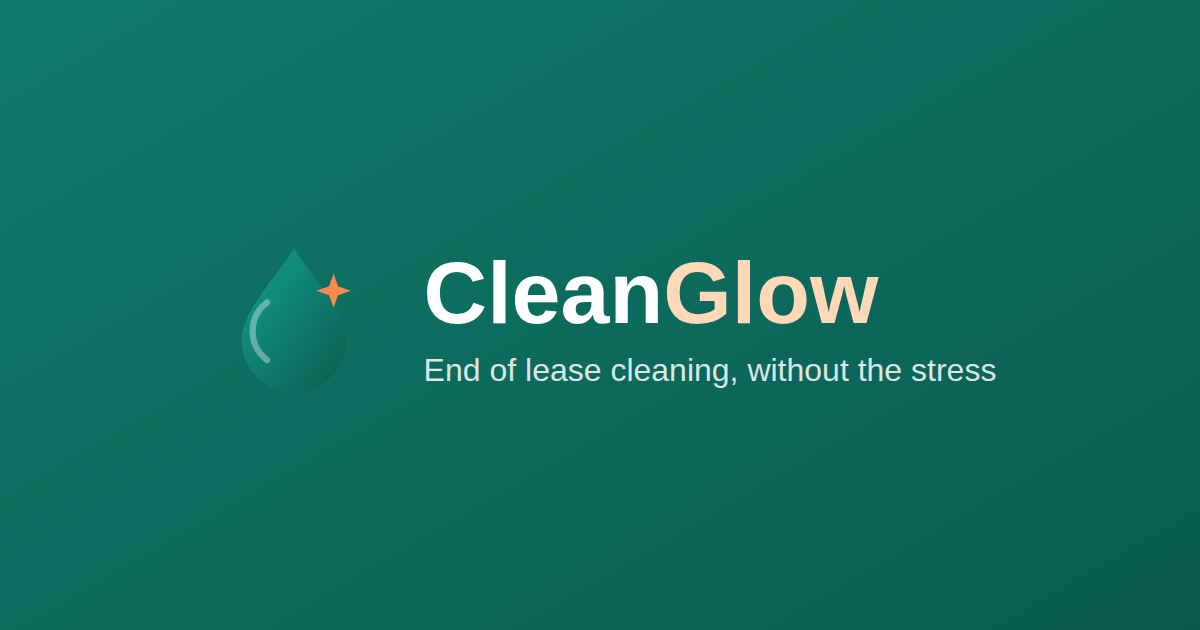
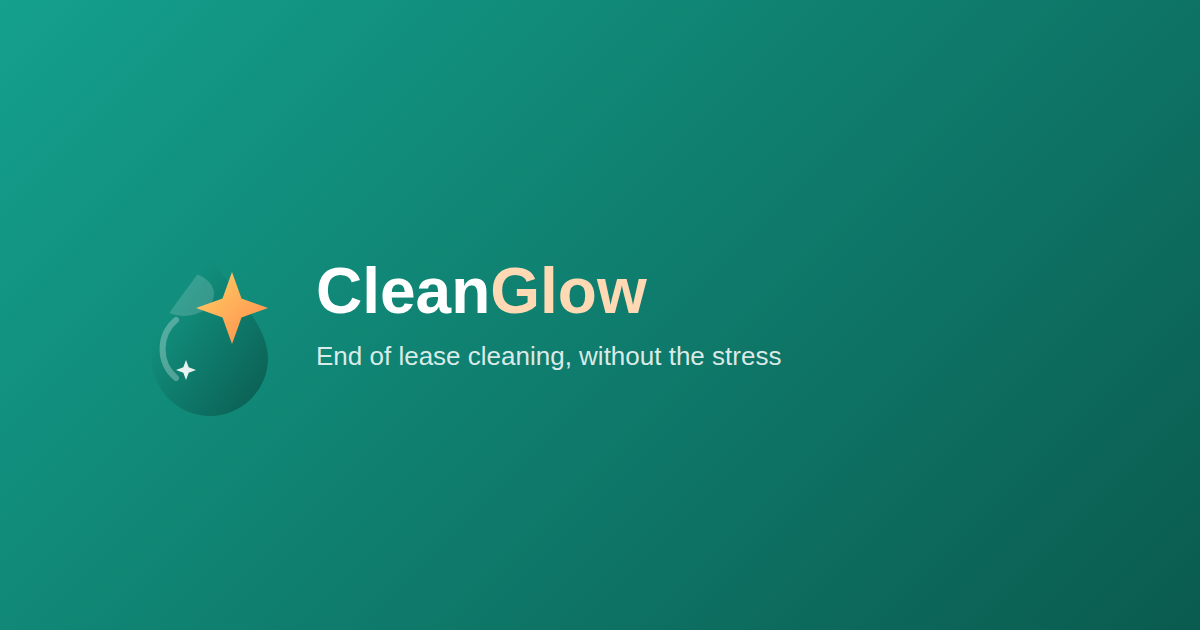
Design/UX pass: bigger glow mark, WCAG contrast fixes, elderly-friendly touches
- Redesign the logo mark: the "glow" sparkle was tiny and disappeared at
  header size (32px); it's now larger, warmer (gold-to-orange gradient),
  paired with a soft shine highlight and a second twinkle. Regenerated
  logo-lockup.svg, og-banner.png and social-profile.png to match.
- Fix two real contrast bugs found during the audit: --color-muted text
  measured ~4.2:1 on white (below the 4.5:1 AA minimum), and white text on
  the orange badges/tags measured ~2.3:1. Also fixed the footer logo text,
  which was using the near-black header ink color on a near-black footer
  background (~1.1:1 — effectively invisible).
- Add visible keyboard focus rings (inputs, buttons, links, pills) and a
  prefers-reduced-motion override, since neither existed before.
- Bump the smallest font sizes (many sat at .68-.80rem) for readability.
- Replace footer social "IG/FB/IN" text abbreviations with real icons, and
  add colored initial avatars to testimonials for warmth/trust.
- Add a tap-to-call icon button in the mobile header — calling is often
  the easier path for less digitally-confident visitors, so it's now a
  first-class action next to "Book now" instead of hidden in the menu.

diff --git a/public/css/styles.css b/public/css/styles.css
@@ -14,7 +14,10 @@
   --color-accent: #ff8a4c;
   --color-ink: #16241f;
   --color-body: #44544e;
-  --color-muted: #6f8079;
+  /* #55655e (not the lighter #6f8079 this used to be) is the darkest shade
+     that still reads as "muted" while clearing 4.5:1 contrast on white —
+     the old value measured ~4.17:1, under the WCAG AA text minimum. */
+  --color-muted: #55655e;
   --color-border: #dfe8e4;
   --color-bg: #ffffff;
   --color-bg-alt: #f5faf8;
@@ -48,6 +51,14 @@ body {
 }
 img { max-width: 100%; display: block; }
 a { color: inherit; text-decoration: none; }
+
+/* Visible keyboard focus on every interactive element — the inputs above get
+   their own focus glow, this covers buttons, links, pills, accordion
+   triggers, etc. so tabbing through the site is never invisible. */
+a:focus-visible, button:focus-visible, .pill:focus-visible, .extra-card:focus-within {
+  outline: 3px solid var(--color-accent);
+  outline-offset: 2px;
+}
 h1, h2, h3, h4 { color: var(--color-ink); line-height: 1.2; margin: 0 0 .5em; }
 p { margin: 0 0 1em; }
 ul { margin: 0; padding: 0; list-style: none; }
@@ -100,6 +111,14 @@ input, select, textarea { font-family: inherit; }
 .main-nav a:hover { color: var(--color-primary); }
 .header-actions { display: flex; align-items: center; gap: 16px; }
 .phone-link { font-weight: 600; font-size: .92rem; color: var(--color-primary-text); display: none; }
+/* Below 900px the text phone number gives way to a round tap-to-call icon —
+   calling is often the easier path for less digitally-confident visitors,
+   so it stays a first-class, always-visible action next to "Book now",
+   not something buried inside the hamburger menu. */
+.call-icon-btn {
+  display: flex; align-items: center; justify-content: center; width: 38px; height: 38px;
+  border-radius: 50%; background: var(--color-primary-light); font-size: 1.05rem; flex-shrink: 0;
+}
 .nav-toggle { display: none; flex-direction: column; gap: 5px; background: none; border: none; padding: 6px; }
 .nav-toggle span { width: 22px; height: 2px; background: var(--color-ink); border-radius: 2px; }
 
@@ -119,7 +138,7 @@ input, select, textarea { font-family: inherit; }
 .hero-copy > p { font-size: 1.08rem; max-width: 520px; }
 .hero-cta { display: flex; gap: 14px; flex-wrap: wrap; margin: 26px 0; }
 .hero-trust { display: flex; gap: 22px; flex-wrap: wrap; font-size: .88rem; color: var(--color-muted); font-weight: 500; }
-.hero-guarantee-footnote { font-size: .76rem; color: var(--color-muted); margin-top: 14px; max-width: 520px; }
+.hero-guarantee-footnote { font-size: .82rem; color: var(--color-muted); margin-top: 14px; max-width: 520px; }
 .hero-guarantee-footnote a { color: var(--color-primary-text); font-weight: 600; text-decoration: underline; }
 
 .hero-visual { display: flex; justify-content: center; }
@@ -133,8 +152,10 @@ input, select, textarea { font-family: inherit; }
 .hero-card-row span:last-child { flex-shrink: 0; white-space: nowrap; }
 .hero-card-total { font-weight: 700; font-size: 1.1rem; color: var(--color-primary-text); border-bottom: none; padding-top: 14px; }
 .hero-card-tag {
-  position: absolute; top: -14px; right: 24px; background: var(--color-accent); color: #fff;
-  font-size: .75rem; font-weight: 700; padding: 6px 12px; border-radius: 999px; box-shadow: var(--shadow-sm);
+  /* Dark ink text, not white — white-on-accent-orange measures ~2.3:1, well
+     under the 4.5:1 minimum for text this size; ink-on-orange clears ~6.9:1. */
+  position: absolute; top: -14px; right: 24px; background: var(--color-accent); color: var(--color-ink);
+  font-size: .78rem; font-weight: 700; padding: 6px 12px; border-radius: 999px; box-shadow: var(--shadow-sm);
 }
 
 /* ---------- Trust strip ---------- */
@@ -142,7 +163,7 @@ input, select, textarea { font-family: inherit; }
 .trust-strip-inner { display: flex; justify-content: space-around; flex-wrap: wrap; gap: 20px; text-align: center; }
 .trust-strip-inner div { display: flex; flex-direction: column; gap: 2px; }
 .trust-strip-inner strong { font-size: 1.4rem; }
-.trust-strip-inner span { font-size: .8rem; opacity: .85; }
+.trust-strip-inner span { font-size: .85rem; opacity: .9; }
 
 /* ---------- Sections ---------- */
 .section { padding: 64px 0; }
@@ -175,7 +196,7 @@ input, select, textarea { font-family: inherit; }
 }
 .guarantee-card h3 { color: #fff; }
 .guarantee-card ul { margin-top: 16px; display: flex; flex-direction: column; gap: 8px; font-size: .92rem; }
-.guarantee-disclaimer { margin-top: 18px; font-size: .78rem; color: rgba(255,255,255,.8); border-top: 1px solid rgba(255,255,255,.25); padding-top: 14px; }
+.guarantee-disclaimer { margin-top: 18px; font-size: .84rem; color: rgba(255,255,255,.85); border-top: 1px solid rgba(255,255,255,.25); padding-top: 14px; }
 .guarantee-disclaimer a { color: #fff; font-weight: 600; text-decoration: underline; }
 
 /* ---------- Pricing ---------- */
@@ -187,7 +208,7 @@ input, select, textarea { font-family: inherit; }
 .price-card.featured { border-color: var(--color-primary); box-shadow: var(--shadow-md); transform: scale(1.03); }
 .price-tag {
   position: absolute; top: -12px; left: 50%; transform: translateX(-50%);
-  background: var(--color-accent); color: #fff; font-size: .75rem; font-weight: 700;
+  background: var(--color-accent); color: var(--color-ink); font-size: .78rem; font-weight: 700;
   padding: 5px 14px; border-radius: 999px;
 }
 .price-card h3 { font-size: 1.05rem; }
@@ -205,7 +226,7 @@ input, select, textarea { font-family: inherit; }
   content: ""; position: absolute; top: 16px; left: 6%; right: 6%; height: 2px; background: var(--color-border); z-index: 0;
 }
 .step-dot {
-  display: flex; flex-direction: column; align-items: center; gap: 6px; font-size: .78rem;
+  display: flex; flex-direction: column; align-items: center; gap: 6px; font-size: .82rem;
   color: var(--color-muted); font-weight: 600; position: relative; z-index: 1; flex: 1;
 }
 .step-dot span {
@@ -235,7 +256,10 @@ input[type=text], input[type=email], input[type=tel], input[type=number], input[
   width: 100%; padding: 12px 14px; border: 1.5px solid var(--color-border); border-radius: var(--radius-sm);
   font-size: .95rem; color: var(--color-ink); background: var(--color-surface); transition: border-color .15s;
 }
-input:focus, select:focus, textarea:focus { outline: none; border-color: var(--color-primary); }
+input:focus, select:focus, textarea:focus {
+  outline: none; border-color: var(--color-primary);
+  box-shadow: 0 0 0 4px var(--color-primary-light);
+}
 textarea { resize: vertical; }
 input:invalid:not(:placeholder-shown):required { border-color: var(--color-danger); }
 
@@ -257,7 +281,7 @@ input:invalid:not(:placeholder-shown):required { border-color: var(--color-dange
 .extra-card:has(input:checked) { border-color: var(--color-primary); background: var(--color-primary-light); }
 .extra-icon { font-size: 1.1rem; }
 .extra-name { font-size: .86rem; font-weight: 600; color: var(--color-ink); }
-.extra-price { font-size: .8rem; color: var(--color-primary-text); font-weight: 700; }
+.extra-price { font-size: .85rem; color: var(--color-primary-text); font-weight: 700; }
 
 .extra-card-unit { padding: 14px; gap: 8px; cursor: default; }
 .extra-qty { display: flex; align-items: center; gap: 8px; margin-top: 4px; }
@@ -307,11 +331,11 @@ input[type=file]:focus { outline: none; border-color: var(--color-primary); }
 .review-section { border: 1px solid var(--color-border); border-radius: var(--radius-sm); padding: 16px 18px; }
 .review-section h4 { font-size: .82rem; text-transform: uppercase; letter-spacing: .04em; color: var(--color-muted); margin: 0 0 8px; }
 .review-section p { margin: 0; font-size: .93rem; color: var(--color-ink); }
-.review-edit { font-size: .78rem; color: var(--color-primary-text); font-weight: 700; float: right; text-decoration: underline; }
+.review-edit { font-size: .84rem; color: var(--color-primary-text); font-weight: 700; float: right; text-decoration: underline; }
 .review-total-price { font-size: 1.3rem; font-weight: 800; color: var(--color-primary-text); }
-.review-discount-tag { font-size: .8rem; color: var(--color-success); font-weight: 600; }
-.review-gst-note { font-size: .78rem; color: var(--color-muted); margin-top: 4px; }
-.review-cancellation-note { font-size: .78rem; color: var(--color-muted); margin-top: 6px; }
+.review-discount-tag { font-size: .85rem; color: var(--color-success); font-weight: 600; }
+.review-gst-note { font-size: .84rem; color: var(--color-muted); margin-top: 4px; }
+.review-cancellation-note { font-size: .84rem; color: var(--color-muted); margin-top: 6px; }
 .review-cancellation-note a { color: var(--color-primary-text); font-weight: 600; text-decoration: underline; }
 
 /* ---------- Price summary sidebar ---------- */
@@ -323,9 +347,9 @@ input[type=file]:focus { outline: none; border-color: var(--color-primary); }
 .summary-line { display: flex; justify-content: space-between; padding: 9px 0; font-size: .88rem; border-bottom: 1px solid rgba(255,255,255,.1); }
 .summary-line[hidden] { display: none; }
 .summary-extras { display: flex; flex-direction: column; }
-.summary-extras li { display: flex; justify-content: space-between; padding: 7px 0; font-size: .83rem; color: rgba(255,255,255,.8); border-bottom: 1px solid rgba(255,255,255,.08); }
+.summary-extras li { display: flex; justify-content: space-between; padding: 7px 0; font-size: .87rem; color: rgba(255,255,255,.85); border-bottom: 1px solid rgba(255,255,255,.08); }
 .summary-total { font-size: 1.1rem; font-weight: 800; border-bottom: none; padding-top: 14px; color: var(--color-accent); }
-.summary-note { font-size: .75rem; color: rgba(255,255,255,.55); margin-top: 14px; }
+.summary-note { font-size: .82rem; color: rgba(255,255,255,.65); margin-top: 14px; }
 
 /* ---------- Testimonials ---------- */
 .testimonials-grid { display: grid; grid-template-columns: repeat(3, 1fr); gap: 24px; }
@@ -334,7 +358,14 @@ input[type=file]:focus { outline: none; border-color: var(--color-primary); }
   padding: 26px; margin: 0; font-size: .95rem;
 }
 .testimonial p { color: var(--color-body); font-style: italic; }
-.testimonial footer { font-weight: 700; color: var(--color-ink); font-size: .85rem; }
+.testimonial footer { display: flex; align-items: center; gap: 10px; font-weight: 700; color: var(--color-ink); font-size: .88rem; margin-top: 16px; }
+.testimonial-avatar {
+  display: flex; align-items: center; justify-content: center; flex-shrink: 0;
+  width: 34px; height: 34px; border-radius: 50%; font-size: .78rem; font-weight: 700;
+  color: var(--color-primary-dark); background: var(--color-primary-light);
+}
+.testimonial:nth-of-type(2) .testimonial-avatar { color: #b8730a; background: color-mix(in srgb, var(--color-accent) 18%, var(--color-bg)); }
+.testimonial:nth-of-type(3) .testimonial-avatar { color: var(--color-primary-dark); background: color-mix(in srgb, var(--color-primary) 20%, var(--color-bg)); }
 
 /* ---------- FAQ Accordion ---------- */
 .accordion { max-width: 760px; margin: 0 auto; border-top: 1px solid var(--color-border); }
@@ -358,15 +389,24 @@ input[type=file]:focus { outline: none; border-color: var(--color-primary); }
 /* ---------- Footer ---------- */
 .site-footer { background: #0d1a15; color: rgba(255,255,255,.75); padding: 56px 0 0; }
 .footer-grid { display: grid; grid-template-columns: 1.4fr 1fr 1fr 1fr; gap: 32px; padding-bottom: 40px; }
-.footer-brand p { font-size: .88rem; margin: 14px 0; max-width: 260px; }
+/* .logo defaults to --color-ink (near-black) for the white header — on the
+   footer's dark background that measured ~1.1:1 contrast, effectively
+   invisible. Overriding to white here is a real legibility fix, not style. */
+.footer-brand .logo { color: #fff; }
+.footer-brand p { font-size: .9rem; margin: 14px 0; max-width: 260px; }
 .footer-social { display: flex; gap: 10px; }
-.footer-social a { width: 34px; height: 34px; border-radius: 50%; background: rgba(255,255,255,.08); display: flex; align-items: center; justify-content: center; font-size: .75rem; font-weight: 700; }
+.footer-social a {
+  width: 34px; height: 34px; border-radius: 50%; background: rgba(255,255,255,.08);
+  display: flex; align-items: center; justify-content: center; color: rgba(255,255,255,.75);
+  transition: background .15s, color .15s;
+}
+.footer-social a:hover { background: var(--color-primary); color: #fff; }
 .footer-col h4 { color: #fff; font-size: .85rem; text-transform: uppercase; letter-spacing: .05em; margin-bottom: 14px; }
 .footer-col { display: flex; flex-direction: column; gap: 10px; font-size: .9rem; }
 .footer-col a:hover { color: #fff; }
 .footer-bottom {
   display: flex; justify-content: space-between; align-items: center; padding: 20px 0;
-  border-top: 1px solid rgba(255,255,255,.08); font-size: .8rem; flex-wrap: wrap; gap: 10px;
+  border-top: 1px solid rgba(255,255,255,.08); font-size: .85rem; flex-wrap: wrap; gap: 10px;
 }
 .footer-legal { display: flex; gap: 18px; }
 
@@ -419,6 +459,7 @@ input[type=file]:focus { outline: none; border-color: var(--color-primary); }
    ========================================================= */
 @media (min-width: 900px) {
   .phone-link { display: inline-block; }
+  .call-icon-btn { display: none; }
 }
 
 @media (max-width: 960px) {
@@ -443,7 +484,7 @@ input[type=file]:focus { outline: none; border-color: var(--color-primary); }
   .booking-form { padding: 24px; }
   .progress-bar { max-width: 100%; }
   .step-dot span { width: 28px; height: 28px; }
-  .step-dot { font-size: .68rem; }
+  .step-dot { font-size: .74rem; }
 }
 
 @media (max-width: 480px) {
@@ -458,4 +499,15 @@ input[type=file]:focus { outline: none; border-color: var(--color-primary); }
   .whatsapp-float, .back-to-top { width: 44px; height: 44px; font-size: 1.3rem; bottom: 16px; }
   .whatsapp-float { left: 16px; }
   .back-to-top { right: 16px; font-size: 1.05rem; }
+}
+
+/* Anyone with vestibular/motion sensitivity (more common among older
+   visitors) gets a still, instant site instead of sliding/fading transitions. */
+@media (prefers-reduced-motion: reduce) {
+  *, *::before, *::after {
+    animation-duration: 0.001ms !important;
+    animation-iteration-count: 1 !important;
+    transition-duration: 0.001ms !important;
+    scroll-behavior: auto !important;
+  }
 }

diff --git a/public/js/app.js b/public/js/app.js
@@ -88,6 +88,8 @@
     const headerPhone = document.getElementById('headerPhoneLink');
     headerPhone.href = telHref;
     headerPhone.textContent = `📞 ${business.phoneDisplay}`;
+    const headerCallIcon = document.getElementById('headerCallIcon');
+    if (headerCallIcon) headerCallIcon.href = telHref;
     const footerPhone = document.getElementById('footerPhoneLink');
     footerPhone.href = telHref;
     footerPhone.textContent = `📞 ${business.phoneDisplay}`;
@@ -119,12 +121,16 @@
     });
 
     const socialWrap = document.getElementById('footerSocial');
-    const socialLabels = { instagram: 'IG', facebook: 'FB', linkedin: 'IN' };
+    const socialIcons = {
+      instagram: '<svg viewBox="0 0 24 24" width="16" height="16" fill="none" stroke="currentColor" stroke-width="1.8"><rect x="3" y="3" width="18" height="18" rx="5"/><circle cx="12" cy="12" r="4.2"/><circle cx="17.4" cy="6.6" r="1.1" fill="currentColor" stroke="none"/></svg>',
+      facebook: '<svg viewBox="0 0 24 24" width="16" height="16" fill="currentColor"><path d="M14.5 9H17V6h-2.5C12.6 6 11 7.6 11 9.9V12H9v3h2v6h3v-6h2.4l.6-3H14v-1.7c0-.7.3-1.3 1.5-1.3Z"/></svg>',
+      linkedin: '<svg viewBox="0 0 24 24" width="16" height="16" fill="currentColor"><circle cx="5.3" cy="5.3" r="2" /><path d="M3.7 9.5h3.2V20H3.7Zm6.2 0h3v1.5h.1c.4-.8 1.5-1.7 3.1-1.7 3.3 0 4 2.2 4 5V20h-3.2v-4.9c0-1.2 0-2.7-1.7-2.7-1.6 0-1.9 1.3-1.9 2.6V20H9.9Z"/></svg>',
+    };
     Object.entries(business.social).forEach(([key, url]) => {
       const a = document.createElement('a');
       a.href = url;
       a.setAttribute('aria-label', key);
-      a.textContent = socialLabels[key] || key.slice(0, 2).toUpperCase();
+      a.innerHTML = socialIcons[key] || key.slice(0, 2).toUpperCase();
       socialWrap.appendChild(a);
     });
   }

diff --git a/public/index.html b/public/index.html
@@ -40,6 +40,7 @@
 
     <div class="header-actions">
       <a href="tel:+61390000000" class="phone-link" id="headerPhoneLink">📞 (03) 9000 0000</a>
+      <a href="tel:+61390000000" class="call-icon-btn" id="headerCallIcon" aria-label="Call us">📞</a>
       <a href="#booking" class="btn btn-primary btn-sm">Book now</a>
       <button class="nav-toggle" id="navToggle" aria-label="Open menu" aria-expanded="false">
         <span></span><span></span><span></span>
@@ -300,15 +301,15 @@
     <div class="testimonials-grid">
       <blockquote class="testimonial">
         <p>"Booked on a Thursday and the apartment was spotless by Friday. My property manager had no issues and I got 100% of my bond back."</p>
-        <footer>— Laura M., Richmond</footer>
+        <footer><span class="testimonial-avatar">LM</span> Laura M., Richmond</footer>
       </blockquote>
       <blockquote class="testimonial">
         <p>"The checklist is on point — they knew exactly what the agent would check. Price was locked in from the start, no surprises."</p>
-        <footer>— James R., St Kilda</footer>
+        <footer><span class="testimonial-avatar">JR</span> James R., St Kilda</footer>
       </blockquote>
       <blockquote class="testimonial">
         <p>"We had an issue with a mark on the wall and they came back free of charge the next day. Very professional service."</p>
-        <footer>— Aisha P., South Yarra</footer>
+        <footer><span class="testimonial-avatar">AP</span> Aisha P., South Yarra</footer>
       </blockquote>
     </div>
   </div>
